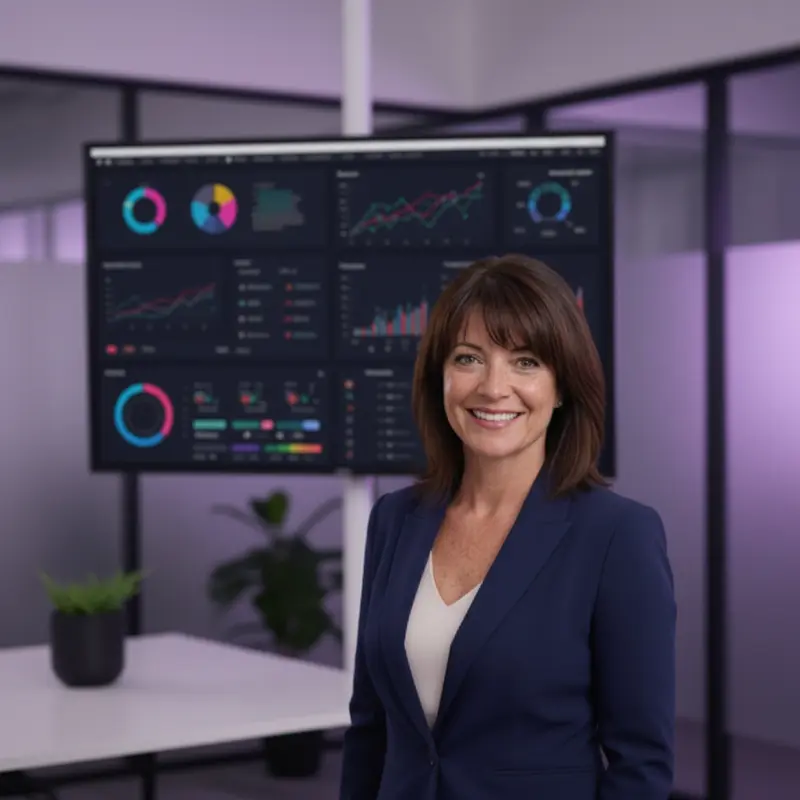
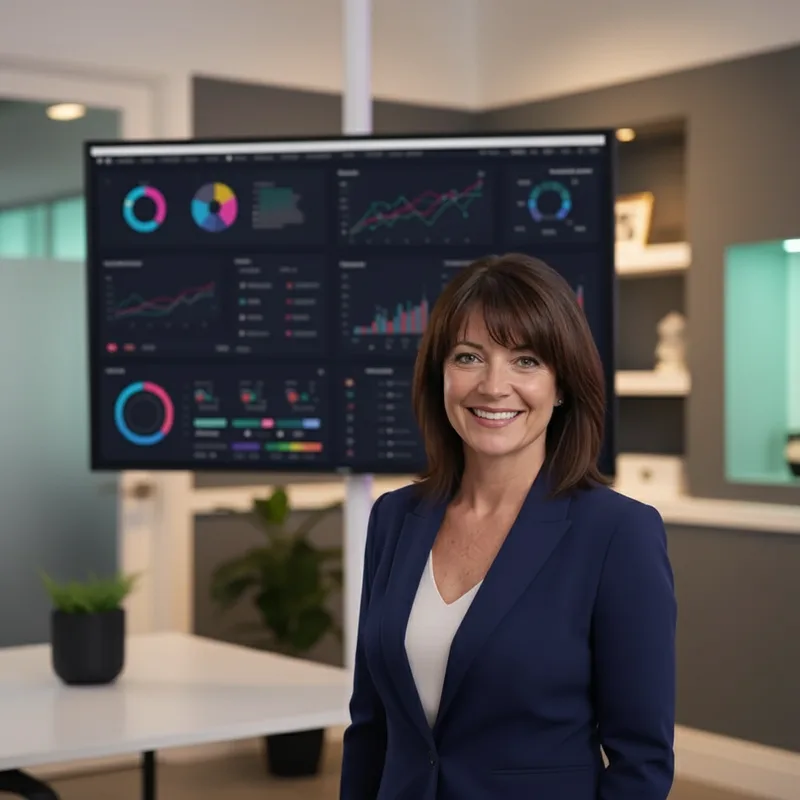
Update brand from purple/black to deep grey/teal/gold
- CSS primary changed from purple-tinted black (#1A1A2E) to neutral
  deep grey (#1F1F1F) across all 8 pages
- Regenerated Christy hero and why-choose-us images with neutral grey
  office backgrounds — no more purple walls
- Added butterfly logo source asset and service hero PNGs

diff --git a/digital-advertising.html b/digital-advertising.html
@@ -28,7 +28,7 @@
     @font-face{font-family:'Montserrat';src:url('/fonts/montserrat-800.woff2') format('woff2');font-weight:800;font-style:normal;font-display:swap}
     @font-face{font-family:'Inter Fallback';src:local('Arial');size-adjust:107%;ascent-override:90%;descent-override:23%;line-gap-override:0%}
 
-    :root{--primary:#1A1A2E;--primary-dark:#0D0D1A;--accent:#2EC4B6;--gold:#D4A843;--gold-light:#E8B931;--white:#FFFFFF;--off-white:#F8F9FA;--gray-50:#F9FAFB;--gray-100:#F3F4F6;--gray-200:#E5E7EB;--gray-500:#6B7280;--gray-600:#4B5563;--gray-700:#374151;--gray-800:#1F2937;--gray-900:#111827;--font-sans:'Inter','Inter Fallback',Arial,sans-serif;--font-heading:'Montserrat','Inter',Arial,sans-serif;--shadow-md:0 4px 6px -1px rgba(0,0,0,0.1),0 2px 4px -2px rgba(0,0,0,0.1);--shadow-lg:0 10px 15px -3px rgba(0,0,0,0.1),0 4px 6px -4px rgba(0,0,0,0.1);--shadow-xl:0 20px 25px -5px rgba(0,0,0,0.1),0 8px 10px -6px rgba(0,0,0,0.1);--radius:12px;--radius-lg:20px;--transition:0.3s cubic-bezier(0.4,0,0.2,1)}
+    :root{--primary:#1F1F1F;--primary-dark:#0F0F0F;--accent:#2EC4B6;--gold:#D4A843;--gold-light:#E8B931;--white:#FFFFFF;--off-white:#F8F9FA;--gray-50:#F9FAFB;--gray-100:#F3F4F6;--gray-200:#E5E7EB;--gray-500:#6B7280;--gray-600:#4B5563;--gray-700:#374151;--gray-800:#1F2937;--gray-900:#111827;--font-sans:'Inter','Inter Fallback',Arial,sans-serif;--font-heading:'Montserrat','Inter',Arial,sans-serif;--shadow-md:0 4px 6px -1px rgba(0,0,0,0.1),0 2px 4px -2px rgba(0,0,0,0.1);--shadow-lg:0 10px 15px -3px rgba(0,0,0,0.1),0 4px 6px -4px rgba(0,0,0,0.1);--shadow-xl:0 20px 25px -5px rgba(0,0,0,0.1),0 8px 10px -6px rgba(0,0,0,0.1);--radius:12px;--radius-lg:20px;--transition:0.3s cubic-bezier(0.4,0,0.2,1)}
 
     *,*::before,*::after{box-sizing:border-box;margin:0;padding:0}
     html{scroll-behavior:smooth;scroll-padding-top:80px}
@@ -60,7 +60,7 @@
     .mobile-nav a{font-size:18px;font-weight:500;color:var(--gray-700);padding:12px 0;border-bottom:1px solid var(--gray-100)}
 
     /* Hero */
-    .hero{padding:140px 0 100px;background:linear-gradient(135deg,var(--primary) 0%,var(--primary-dark) 50%,#0A0A14 100%);position:relative;overflow:hidden;min-height:90vh;display:flex;align-items:center}
+    .hero{padding:140px 0 100px;background:linear-gradient(135deg,var(--primary) 0%,var(--primary-dark) 50%,#0A0A0A 100%);position:relative;overflow:hidden;min-height:90vh;display:flex;align-items:center}
     .hero::before{content:'';position:absolute;top:-50%;right:-20%;width:800px;height:800px;background:radial-gradient(circle,rgba(212,168,67,0.15) 0%,transparent 70%);border-radius:50%}
     .hero::after{content:'';position:absolute;bottom:-30%;left:-10%;width:600px;height:600px;background:radial-gradient(circle,rgba(46,196,182,0.3) 0%,transparent 70%);border-radius:50%}
     .hero-grid{display:grid;grid-template-columns:1fr 1fr;gap:60px;align-items:center;position:relative;z-index:1}
@@ -100,13 +100,13 @@
     .why-grid{max-width:800px;margin:0 auto;display:grid;gap:20px}
     .why-item{display:flex;align-items:flex-start;gap:16px;background:var(--white);padding:24px;border-radius:var(--radius);border:1px solid var(--gray-100);transition:all var(--transition)}
     .why-item:hover{box-shadow:var(--shadow-lg);transform:translateY(-2px)}
-    .why-check{width:32px;height:32px;min-width:32px;background:rgba(26,26,46,0.1);border-radius:50%;display:flex;align-items:center;justify-content:center;color:var(--primary);margin-top:2px}
+    .why-check{width:32px;height:32px;min-width:32px;background:rgba(31,31,31,0.1);border-radius:50%;display:flex;align-items:center;justify-content:center;color:var(--primary);margin-top:2px}
     .why-check svg{width:16px;height:16px}
     .why-item h4{font-size:17px;font-weight:700;margin-bottom:6px;font-family:var(--font-heading)}
     .why-item p{font-size:15px;color:var(--gray-500);line-height:1.7}
 
     /* CTA */
-    .cta-section{background:linear-gradient(135deg,var(--primary) 0%,var(--primary-dark) 50%,#0A0A14 100%);color:var(--white);text-align:center;padding:80px 0;position:relative;overflow:hidden}
+    .cta-section{background:linear-gradient(135deg,var(--primary) 0%,var(--primary-dark) 50%,#0A0A0A 100%);color:var(--white);text-align:center;padding:80px 0;position:relative;overflow:hidden}
     .cta-section::before{content:'';position:absolute;top:-40%;right:-15%;width:600px;height:600px;background:radial-gradient(circle,rgba(212,168,67,0.12) 0%,transparent 70%);border-radius:50%}
     .cta-section h2{font-size:42px;font-weight:800;color:var(--white);margin-bottom:16px;position:relative;z-index:1}
     .cta-section p{font-size:18px;color:rgba(255,255,255,0.8);margin-bottom:32px;max-width:600px;margin-left:auto;margin-right:auto;position:relative;z-index:1}

diff --git a/content-creation.html b/content-creation.html
@@ -28,7 +28,7 @@
     @font-face{font-family:'Montserrat';src:url('/fonts/montserrat-800.woff2') format('woff2');font-weight:800;font-style:normal;font-display:swap}
     @font-face{font-family:'Inter Fallback';src:local('Arial');size-adjust:107%;ascent-override:90%;descent-override:23%;line-gap-override:0%}
 
-    :root{--primary:#1A1A2E;--primary-dark:#0D0D1A;--accent:#2EC4B6;--gold:#D4A843;--gold-light:#E8B931;--white:#FFFFFF;--off-white:#F8F9FA;--gray-50:#F9FAFB;--gray-100:#F3F4F6;--gray-200:#E5E7EB;--gray-300:#D1D5DB;--gray-500:#6B7280;--gray-600:#4B5563;--gray-700:#374151;--gray-800:#1F2937;--gray-900:#111827;--font-sans:'Inter','Inter Fallback',Arial,sans-serif;--font-heading:'Montserrat','Inter',Arial,sans-serif;--shadow-sm:0 1px 2px rgba(0,0,0,0.05);--shadow-md:0 4px 6px -1px rgba(0,0,0,0.1),0 2px 4px -2px rgba(0,0,0,0.1);--shadow-lg:0 10px 15px -3px rgba(0,0,0,0.1),0 4px 6px -4px rgba(0,0,0,0.1);--shadow-xl:0 20px 25px -5px rgba(0,0,0,0.1),0 8px 10px -6px rgba(0,0,0,0.1);--radius:12px;--radius-lg:20px;--transition:0.3s cubic-bezier(0.4,0,0.2,1)}
+    :root{--primary:#1F1F1F;--primary-dark:#0F0F0F;--accent:#2EC4B6;--gold:#D4A843;--gold-light:#E8B931;--white:#FFFFFF;--off-white:#F8F9FA;--gray-50:#F9FAFB;--gray-100:#F3F4F6;--gray-200:#E5E7EB;--gray-300:#D1D5DB;--gray-500:#6B7280;--gray-600:#4B5563;--gray-700:#374151;--gray-800:#1F2937;--gray-900:#111827;--font-sans:'Inter','Inter Fallback',Arial,sans-serif;--font-heading:'Montserrat','Inter',Arial,sans-serif;--shadow-sm:0 1px 2px rgba(0,0,0,0.05);--shadow-md:0 4px 6px -1px rgba(0,0,0,0.1),0 2px 4px -2px rgba(0,0,0,0.1);--shadow-lg:0 10px 15px -3px rgba(0,0,0,0.1),0 4px 6px -4px rgba(0,0,0,0.1);--shadow-xl:0 20px 25px -5px rgba(0,0,0,0.1),0 8px 10px -6px rgba(0,0,0,0.1);--radius:12px;--radius-lg:20px;--transition:0.3s cubic-bezier(0.4,0,0.2,1)}
 
     *,*::before,*::after{box-sizing:border-box;margin:0;padding:0}
     html{scroll-behavior:smooth;scroll-padding-top:80px}
@@ -60,7 +60,7 @@
     .mobile-nav a{font-size:18px;font-weight:500;color:var(--gray-700);padding:12px 0;border-bottom:1px solid var(--gray-100)}
 
     /* Hero */
-    .hero{padding:140px 0 100px;background:linear-gradient(135deg,var(--primary) 0%,var(--primary-dark) 50%,#0A0A14 100%);position:relative;overflow:hidden;min-height:90vh;display:flex;align-items:center}
+    .hero{padding:140px 0 100px;background:linear-gradient(135deg,var(--primary) 0%,var(--primary-dark) 50%,#0A0A0A 100%);position:relative;overflow:hidden;min-height:90vh;display:flex;align-items:center}
     .hero::before{content:'';position:absolute;top:-50%;right:-20%;width:800px;height:800px;background:radial-gradient(circle,rgba(212,168,67,0.15) 0%,transparent 70%);border-radius:50%}
     .hero::after{content:'';position:absolute;bottom:-30%;left:-10%;width:600px;height:600px;background:radial-gradient(circle,rgba(46,196,182,0.3) 0%,transparent 70%);border-radius:50%}
     .hero-grid{display:grid;grid-template-columns:1fr 1fr;gap:60px;align-items:center;position:relative;z-index:1}
@@ -104,13 +104,13 @@
     .why-content h2 span{color:var(--gold)}
     .why-list{display:flex;flex-direction:column;gap:20px;margin-top:32px}
     .why-item{display:flex;align-items:flex-start;gap:16px}
-    .why-check{width:28px;height:28px;min-width:28px;background:rgba(26,26,46,0.1);border-radius:50%;display:flex;align-items:center;justify-content:center;color:var(--primary);margin-top:2px}
+    .why-check{width:28px;height:28px;min-width:28px;background:rgba(31,31,31,0.1);border-radius:50%;display:flex;align-items:center;justify-content:center;color:var(--primary);margin-top:2px}
     .why-check svg{width:16px;height:16px}
     .why-item-text h3{font-size:17px;font-weight:600;color:var(--gray-800);margin-bottom:4px;font-family:var(--font-heading)}
     .why-item-text p{font-size:15px;color:var(--gray-500);line-height:1.6}
 
     /* CTA Section */
-    .cta-section{background:linear-gradient(135deg,var(--primary) 0%,var(--primary-dark) 50%,#0A0A14 100%);position:relative;overflow:hidden;text-align:center;color:var(--white)}
+    .cta-section{background:linear-gradient(135deg,var(--primary) 0%,var(--primary-dark) 50%,#0A0A0A 100%);position:relative;overflow:hidden;text-align:center;color:var(--white)}
     .cta-section::before{content:'';position:absolute;top:-40%;right:-15%;width:600px;height:600px;background:radial-gradient(circle,rgba(212,168,67,0.12) 0%,transparent 70%);border-radius:50%}
     .cta-section h2{font-size:42px;font-weight:800;color:var(--white);margin-bottom:16px;position:relative;z-index:1}
     .cta-section p{font-size:18px;color:rgba(255,255,255,0.8);margin-bottom:40px;max-width:600px;margin-left:auto;margin-right:auto;position:relative;z-index:1}

diff --git a/index.html b/index.html
@@ -31,8 +31,8 @@
 
     /* ── CSS Variables ── */
     :root {
-      --primary: #1A1A2E;
-      --primary-dark: #0D0D1A;
+      --primary: #1F1F1F;
+      --primary-dark: #0F0F0F;
       --accent: #2EC4B6;
       --gold: #D4A843;
       --gold-light: #E8B931;
@@ -90,7 +90,7 @@
     .mobile-nav a { font-size: 18px; font-weight: 500; color: var(--gray-700); padding: 12px 0; border-bottom: 1px solid var(--gray-100); }
 
     /* ── Hero ── */
-    .hero { padding: 140px 0 100px; background: linear-gradient(135deg, var(--primary) 0%, var(--primary-dark) 50%, #0A0A14 100%); position: relative; overflow: hidden; min-height: 90vh; display: flex; align-items: center; }
+    .hero { padding: 140px 0 100px; background: linear-gradient(135deg, var(--primary) 0%, var(--primary-dark) 50%, #0A0A0A 100%); position: relative; overflow: hidden; min-height: 90vh; display: flex; align-items: center; }
     .hero::before { content: ''; position: absolute; top: -50%; right: -20%; width: 800px; height: 800px; background: radial-gradient(circle, rgba(212,168,67,0.15) 0%, transparent 70%); border-radius: 50%; }
     .hero::after { content: ''; position: absolute; bottom: -30%; left: -10%; width: 600px; height: 600px; background: radial-gradient(circle, rgba(46,196,182,0.3) 0%, transparent 70%); border-radius: 50%; }
     .hero-grid { display: grid; grid-template-columns: 1fr 1fr; gap: 60px; align-items: center; position: relative; z-index: 1; }
@@ -107,7 +107,7 @@
     .btn-outline:hover { background: rgba(255,255,255,0.1); border-color: rgba(255,255,255,0.6); }
     .hero-image { position: relative; }
     .hero-image img { width: 100%; border-radius: var(--radius-lg); }
-    .hero-image .butterfly-float { position: absolute; top: -30px; right: -20px; width: 120px; height: auto; animation: float 3s ease-in-out infinite; filter: drop-shadow(0 8px 20px rgba(26,26,46,0.3)); }
+    .hero-image .butterfly-float { position: absolute; top: -30px; right: -20px; width: 120px; height: auto; animation: float 3s ease-in-out infinite; filter: drop-shadow(0 8px 20px rgba(31,31,31,0.3)); }
     @keyframes float { 0%, 100% { transform: translateY(0) rotate(0deg); } 50% { transform: translateY(-15px) rotate(5deg); } }
     .hero-stats { display: flex; gap: 40px; margin-top: 48px; padding-top: 32px; border-top: 1px solid rgba(255,255,255,0.15); }
     .hero-stat { text-align: left; }
@@ -147,7 +147,7 @@
     .about-content > p { font-size: 17px; color: var(--gray-600); line-height: 1.8; margin-bottom: 20px; }
     .about-features { display: grid; grid-template-columns: 1fr 1fr; gap: 16px; margin-top: 32px; }
     .about-feature { display: flex; align-items: flex-start; gap: 12px; padding: 12px; border-radius: 8px; }
-    .about-feature .check { width: 24px; height: 24px; min-width: 24px; background: rgba(26,26,46,0.1); border-radius: 50%; display: flex; align-items: center; justify-content: center; color: var(--primary); margin-top: 2px; }
+    .about-feature .check { width: 24px; height: 24px; min-width: 24px; background: rgba(31,31,31,0.1); border-radius: 50%; display: flex; align-items: center; justify-content: center; color: var(--primary); margin-top: 2px; }
     .about-feature .check svg { width: 14px; height: 14px; }
     .about-feature span { font-size: 15px; font-weight: 500; color: var(--gray-700); }
 
@@ -218,7 +218,7 @@
     .form-group { margin-bottom: 16px; }
     .form-group label { display: block; font-size: 14px; font-weight: 500; color: var(--gray-700); margin-bottom: 6px; }
     .form-group input, .form-group textarea, .form-group select { width: 100%; padding: 12px 16px; border: 1px solid var(--gray-200); border-radius: 8px; font-family: var(--font-sans); font-size: 15px; color: var(--gray-800); transition: border-color var(--transition), box-shadow var(--transition); background: var(--gray-50); }
-    .form-group input:focus, .form-group textarea:focus, .form-group select:focus { outline: none; border-color: var(--primary); box-shadow: 0 0 0 3px rgba(26,26,46,0.1); background: var(--white); }
+    .form-group input:focus, .form-group textarea:focus, .form-group select:focus { outline: none; border-color: var(--primary); box-shadow: 0 0 0 3px rgba(31,31,31,0.1); background: var(--white); }
     .form-group textarea { resize: vertical; min-height: 100px; }
     .form-submit { width: 100%; padding: 14px; background: var(--primary); color: var(--white); border: none; border-radius: 50px; font-family: var(--font-sans); font-size: 16px; font-weight: 600; cursor: pointer; transition: all var(--transition); }
     .form-submit:hover { background: var(--primary-dark); transform: translateY(-1px); box-shadow: var(--shadow-md); }

diff --git a/seo-analysis.html b/seo-analysis.html
@@ -30,7 +30,7 @@
     @font-face{font-family:'Inter Fallback';src:local('Arial');size-adjust:107%;ascent-override:90%;descent-override:23%;line-gap-override:0%}
 
     /* ── CSS Variables ── */
-    :root{--primary:#1A1A2E;--primary-dark:#0D0D1A;--accent:#2EC4B6;--gold:#D4A843;--gold-light:#E8B931;--white:#FFFFFF;--off-white:#F8F9FA;--gray-50:#F9FAFB;--gray-100:#F3F4F6;--gray-200:#E5E7EB;--gray-500:#6B7280;--gray-600:#4B5563;--gray-700:#374151;--gray-800:#1F2937;--gray-900:#111827;--font-sans:'Inter','Inter Fallback',Arial,sans-serif;--font-heading:'Montserrat','Inter',Arial,sans-serif;--shadow-md:0 4px 6px -1px rgba(0,0,0,0.1),0 2px 4px -2px rgba(0,0,0,0.1);--shadow-lg:0 10px 15px -3px rgba(0,0,0,0.1),0 4px 6px -4px rgba(0,0,0,0.1);--shadow-xl:0 20px 25px -5px rgba(0,0,0,0.1),0 8px 10px -6px rgba(0,0,0,0.1);--radius:12px;--radius-lg:20px;--transition:0.3s cubic-bezier(0.4,0,0.2,1)}
+    :root{--primary:#1F1F1F;--primary-dark:#0F0F0F;--accent:#2EC4B6;--gold:#D4A843;--gold-light:#E8B931;--white:#FFFFFF;--off-white:#F8F9FA;--gray-50:#F9FAFB;--gray-100:#F3F4F6;--gray-200:#E5E7EB;--gray-500:#6B7280;--gray-600:#4B5563;--gray-700:#374151;--gray-800:#1F2937;--gray-900:#111827;--font-sans:'Inter','Inter Fallback',Arial,sans-serif;--font-heading:'Montserrat','Inter',Arial,sans-serif;--shadow-md:0 4px 6px -1px rgba(0,0,0,0.1),0 2px 4px -2px rgba(0,0,0,0.1);--shadow-lg:0 10px 15px -3px rgba(0,0,0,0.1),0 4px 6px -4px rgba(0,0,0,0.1);--shadow-xl:0 20px 25px -5px rgba(0,0,0,0.1),0 8px 10px -6px rgba(0,0,0,0.1);--radius:12px;--radius-lg:20px;--transition:0.3s cubic-bezier(0.4,0,0.2,1)}
 
     /* ── Reset & Base ── */
     *,*::before,*::after{box-sizing:border-box;margin:0;padding:0}
@@ -63,7 +63,7 @@
     .mobile-nav a{font-size:18px;font-weight:500;color:var(--gray-700);padding:12px 0;border-bottom:1px solid var(--gray-100)}
 
     /* ── Hero ── */
-    .hero{padding:140px 0 100px;background:linear-gradient(135deg,var(--primary) 0%,var(--primary-dark) 50%,#0A0A14 100%);position:relative;overflow:hidden;min-height:80vh;display:flex;align-items:center}
+    .hero{padding:140px 0 100px;background:linear-gradient(135deg,var(--primary) 0%,var(--primary-dark) 50%,#0A0A0A 100%);position:relative;overflow:hidden;min-height:80vh;display:flex;align-items:center}
     .hero::before{content:'';position:absolute;top:-50%;right:-20%;width:800px;height:800px;background:radial-gradient(circle,rgba(212,168,67,0.15) 0%,transparent 70%);border-radius:50%}
     .hero::after{content:'';position:absolute;bottom:-30%;left:-10%;width:600px;height:600px;background:radial-gradient(circle,rgba(46,196,182,0.3) 0%,transparent 70%);border-radius:50%}
     .hero-grid{display:grid;grid-template-columns:1fr 1fr;gap:60px;align-items:center;position:relative;z-index:1}
@@ -108,7 +108,7 @@
     .why-list{display:flex;flex-direction:column;gap:20px;margin-top:32px}
     .why-item{display:flex;align-items:flex-start;gap:16px;padding:16px;background:var(--white);border-radius:var(--radius);border:1px solid var(--gray-100);transition:all var(--transition)}
     .why-item:hover{box-shadow:var(--shadow-md);border-color:var(--primary)}
-    .why-check{width:28px;height:28px;min-width:28px;background:rgba(26,26,46,0.1);border-radius:50%;display:flex;align-items:center;justify-content:center;color:var(--primary);margin-top:2px}
+    .why-check{width:28px;height:28px;min-width:28px;background:rgba(31,31,31,0.1);border-radius:50%;display:flex;align-items:center;justify-content:center;color:var(--primary);margin-top:2px}
     .why-check svg{width:16px;height:16px}
     .why-item-text h4{font-size:16px;font-weight:600;color:var(--gray-800);margin-bottom:4px;font-family:var(--font-heading)}
     .why-item-text p{font-size:14px;color:var(--gray-500);line-height:1.6}
@@ -122,7 +122,7 @@
     .stat-bar-fill.animated{width:93%}
 
     /* ── CTA Section ── */
-    .cta-section{background:linear-gradient(135deg,var(--primary) 0%,var(--primary-dark) 50%,#0A0A14 100%);color:var(--white);text-align:center;padding:80px 0;position:relative;overflow:hidden}
+    .cta-section{background:linear-gradient(135deg,var(--primary) 0%,var(--primary-dark) 50%,#0A0A0A 100%);color:var(--white);text-align:center;padding:80px 0;position:relative;overflow:hidden}
     .cta-section::before{content:'';position:absolute;top:-40%;right:-15%;width:600px;height:600px;background:radial-gradient(circle,rgba(212,168,67,0.12) 0%,transparent 70%);border-radius:50%}
     .cta-content{position:relative;z-index:1;max-width:650px;margin:0 auto}
     .cta-content h2{font-size:38px;font-weight:800;color:var(--white);margin-bottom:16px}

diff --git a/social-media.html b/social-media.html
@@ -31,7 +31,7 @@
 
     /* ── CSS Variables ── */
     :root{
-      --primary:#1A1A2E;--primary-dark:#0D0D1A;--accent:#2EC4B6;
+      --primary:#1F1F1F;--primary-dark:#0F0F0F;--accent:#2EC4B6;
       --gold:#D4A843;--gold-light:#E8B931;
       --white:#FFFFFF;--off-white:#F8F9FA;
       --gray-100:#F3F4F6;--gray-500:#6B7280;--gray-600:#4B5563;--gray-700:#374151;--gray-800:#1F2937;--gray-900:#111827;
@@ -74,7 +74,7 @@
     .mobile-nav a{font-size:18px;font-weight:500;color:var(--gray-700);padding:12px 0;border-bottom:1px solid var(--gray-100)}
 
     /* ── Hero ── */
-    .hero{padding:140px 0 100px;background:linear-gradient(135deg,#1A1A2E 0%,#0D0D1A 50%,#0A0A14 100%);position:relative;overflow:hidden;min-height:90vh;display:flex;align-items:center}
+    .hero{padding:140px 0 100px;background:linear-gradient(135deg,#1F1F1F 0%,#0F0F0F 50%,#0A0A0A 100%);position:relative;overflow:hidden;min-height:90vh;display:flex;align-items:center}
     .hero::before{content:'';position:absolute;top:-50%;right:-20%;width:800px;height:800px;background:radial-gradient(circle,rgba(212,168,67,0.15) 0%,transparent 70%);border-radius:50%}
     .hero::after{content:'';position:absolute;bottom:-30%;left:-10%;width:600px;height:600px;background:radial-gradient(circle,rgba(46,196,182,0.3) 0%,transparent 70%);border-radius:50%}
     .hero-grid{display:grid;grid-template-columns:1fr 1fr;gap:60px;align-items:center;position:relative;z-index:1}
@@ -103,8 +103,8 @@
     .service-details{background:var(--white)}
     .details-grid{display:grid;grid-template-columns:repeat(3,1fr);gap:40px}
     .detail-card{background:var(--white);border:1px solid rgba(0,0,0,0.06);border-radius:var(--radius-lg);padding:40px 32px;transition:all var(--transition)}
-    .detail-card:hover{transform:translateY(-4px);box-shadow:var(--shadow-lg);border-color:rgba(26,26,46,0.15)}
-    .detail-icon{width:64px;height:64px;background:linear-gradient(135deg,rgba(26,26,46,0.1),rgba(26,26,46,0.05));border-radius:16px;display:flex;align-items:center;justify-content:center;margin-bottom:24px;color:var(--primary)}
+    .detail-card:hover{transform:translateY(-4px);box-shadow:var(--shadow-lg);border-color:rgba(31,31,31,0.15)}
+    .detail-icon{width:64px;height:64px;background:linear-gradient(135deg,rgba(31,31,31,0.1),rgba(31,31,31,0.05));border-radius:16px;display:flex;align-items:center;justify-content:center;margin-bottom:24px;color:var(--primary)}
     .detail-icon svg{width:32px;height:32px}
     .detail-card h3{font-size:22px;font-weight:700;margin-bottom:12px;color:var(--gray-900)}
     .detail-card p{font-size:16px;color:var(--gray-600);line-height:1.7}
@@ -126,10 +126,10 @@
     .stat-box .num{font-family:var(--font-heading);font-size:32px;font-weight:800;color:var(--primary);margin-bottom:4px}
     .stat-box .lbl{font-size:13px;color:var(--gray-500)}
     .platforms{display:flex;justify-content:center;gap:16px;padding-top:16px;border-top:1px solid var(--gray-100)}
-    .platform-badge{display:inline-flex;align-items:center;gap:6px;padding:8px 16px;background:rgba(26,26,46,0.06);border-radius:50px;font-size:13px;font-weight:600;color:var(--primary)}
+    .platform-badge{display:inline-flex;align-items:center;gap:6px;padding:8px 16px;background:rgba(31,31,31,0.06);border-radius:50px;font-size:13px;font-weight:600;color:var(--primary)}
 
     /* ── CTA ── */
-    .cta-section{background:linear-gradient(135deg,#1A1A2E 0%,#0D0D1A 50%,#0A0A14 100%);position:relative;overflow:hidden;text-align:center}
+    .cta-section{background:linear-gradient(135deg,#1F1F1F 0%,#0F0F0F 50%,#0A0A0A 100%);position:relative;overflow:hidden;text-align:center}
     .cta-section::before{content:'';position:absolute;top:-40%;right:-15%;width:600px;height:600px;background:radial-gradient(circle,rgba(212,168,67,0.12) 0%,transparent 70%);border-radius:50%}
     .cta-inner{position:relative;z-index:1}
     .cta-section h2{font-size:42px;font-weight:700;color:var(--white);margin-bottom:16px}

diff --git a/services.html b/services.html
@@ -27,7 +27,7 @@
     @font-face{font-family:'Montserrat';src:url('/fonts/montserrat-800.woff2') format('woff2');font-weight:800;font-style:normal;font-display:swap}
     @font-face{font-family:'Inter Fallback';src:local('Arial');size-adjust:107%;ascent-override:90%;descent-override:23%;line-gap-override:0%}
 
-    :root{--primary:#1A1A2E;--primary-dark:#0D0D1A;--accent:#2EC4B6;--gold:#D4A843;--gold-light:#E8B931;--white:#FFFFFF;--off-white:#F8F9FA;--gray-50:#F9FAFB;--gray-100:#F3F4F6;--gray-200:#E5E7EB;--gray-300:#D1D5DB;--gray-500:#6B7280;--gray-600:#4B5563;--gray-700:#374151;--gray-800:#1F2937;--gray-900:#111827;--font-sans:'Inter','Inter Fallback',Arial,sans-serif;--font-heading:'Montserrat','Inter',Arial,sans-serif;--shadow-sm:0 1px 2px rgba(0,0,0,0.05);--shadow-md:0 4px 6px -1px rgba(0,0,0,0.1),0 2px 4px -2px rgba(0,0,0,0.1);--shadow-lg:0 10px 15px -3px rgba(0,0,0,0.1),0 4px 6px -4px rgba(0,0,0,0.1);--shadow-xl:0 20px 25px -5px rgba(0,0,0,0.1),0 8px 10px -6px rgba(0,0,0,0.1);--radius:12px;--radius-lg:20px;--transition:0.3s cubic-bezier(0.4,0,0.2,1)}
+    :root{--primary:#1F1F1F;--primary-dark:#0F0F0F;--accent:#2EC4B6;--gold:#D4A843;--gold-light:#E8B931;--white:#FFFFFF;--off-white:#F8F9FA;--gray-50:#F9FAFB;--gray-100:#F3F4F6;--gray-200:#E5E7EB;--gray-300:#D1D5DB;--gray-500:#6B7280;--gray-600:#4B5563;--gray-700:#374151;--gray-800:#1F2937;--gray-900:#111827;--font-sans:'Inter','Inter Fallback',Arial,sans-serif;--font-heading:'Montserrat','Inter',Arial,sans-serif;--shadow-sm:0 1px 2px rgba(0,0,0,0.05);--shadow-md:0 4px 6px -1px rgba(0,0,0,0.1),0 2px 4px -2px rgba(0,0,0,0.1);--shadow-lg:0 10px 15px -3px rgba(0,0,0,0.1),0 4px 6px -4px rgba(0,0,0,0.1);--shadow-xl:0 20px 25px -5px rgba(0,0,0,0.1),0 8px 10px -6px rgba(0,0,0,0.1);--radius:12px;--radius-lg:20px;--transition:0.3s cubic-bezier(0.4,0,0.2,1)}
 
     *,*::before,*::after{box-sizing:border-box;margin:0;padding:0}
     html{scroll-behavior:smooth;scroll-padding-top:80px}
@@ -59,7 +59,7 @@
     .mobile-nav a{font-size:18px;font-weight:500;color:var(--gray-700);padding:12px 0;border-bottom:1px solid var(--gray-100)}
 
     /* Hero */
-    .hero{padding:140px 0 100px;background:linear-gradient(135deg,var(--primary) 0%,var(--primary-dark) 50%,#0A0A14 100%);position:relative;overflow:hidden;display:flex;align-items:center;text-align:center}
+    .hero{padding:140px 0 100px;background:linear-gradient(135deg,var(--primary) 0%,var(--primary-dark) 50%,#0A0A0A 100%);position:relative;overflow:hidden;display:flex;align-items:center;text-align:center}
     .hero::before{content:'';position:absolute;top:-50%;right:-20%;width:800px;height:800px;background:radial-gradient(circle,rgba(212,168,67,0.15) 0%,transparent 70%);border-radius:50%}
     .hero::after{content:'';position:absolute;bottom:-30%;left:-10%;width:600px;height:600px;background:radial-gradient(circle,rgba(46,196,182,0.3) 0%,transparent 70%);border-radius:50%}
     .hero-content{position:relative;z-index:1;max-width:720px;margin:0 auto;color:var(--white)}
@@ -93,7 +93,7 @@
     .service-link:hover svg{transform:translateX(4px)}
 
     /* CTA Section */
-    .cta-section{background:linear-gradient(135deg,var(--primary) 0%,var(--primary-dark) 50%,#0A0A14 100%);position:relative;overflow:hidden;text-align:center;color:var(--white)}
+    .cta-section{background:linear-gradient(135deg,var(--primary) 0%,var(--primary-dark) 50%,#0A0A0A 100%);position:relative;overflow:hidden;text-align:center;color:var(--white)}
     .cta-section::before{content:'';position:absolute;top:-40%;right:-15%;width:600px;height:600px;background:radial-gradient(circle,rgba(212,168,67,0.12) 0%,transparent 70%);border-radius:50%}
     .cta-section h2{font-size:42px;font-weight:800;color:var(--white);margin-bottom:16px;position:relative;z-index:1}
     .cta-section p{font-size:18px;color:rgba(255,255,255,0.8);margin-bottom:40px;max-width:600px;margin-left:auto;margin-right:auto;position:relative;z-index:1}

diff --git a/blogging.html b/blogging.html
@@ -27,7 +27,7 @@
     @font-face{font-family:'Montserrat';src:url('/fonts/montserrat-800.woff2') format('woff2');font-weight:800;font-style:normal;font-display:swap}
     @font-face{font-family:'Inter Fallback';src:local('Arial');size-adjust:107%;ascent-override:90%;descent-override:23%;line-gap-override:0%}
 
-    :root{--primary:#1A1A2E;--primary-dark:#0D0D1A;--accent:#2EC4B6;--gold:#D4A843;--gold-light:#E8B931;--white:#FFFFFF;--off-white:#F8F9FA;--gray-100:#F3F4F6;--gray-500:#6B7280;--gray-600:#4B5563;--gray-700:#374151;--gray-800:#1F2937;--gray-900:#111827;--font-sans:'Inter','Inter Fallback',Arial,sans-serif;--font-heading:'Montserrat','Inter',Arial,sans-serif;--shadow-md:0 4px 6px -1px rgba(0,0,0,0.1),0 2px 4px -2px rgba(0,0,0,0.1);--shadow-lg:0 10px 15px -3px rgba(0,0,0,0.1),0 4px 6px -4px rgba(0,0,0,0.1);--radius:12px;--radius-lg:20px;--transition:0.3s cubic-bezier(0.4,0,0.2,1)}
+    :root{--primary:#1F1F1F;--primary-dark:#0F0F0F;--accent:#2EC4B6;--gold:#D4A843;--gold-light:#E8B931;--white:#FFFFFF;--off-white:#F8F9FA;--gray-100:#F3F4F6;--gray-500:#6B7280;--gray-600:#4B5563;--gray-700:#374151;--gray-800:#1F2937;--gray-900:#111827;--font-sans:'Inter','Inter Fallback',Arial,sans-serif;--font-heading:'Montserrat','Inter',Arial,sans-serif;--shadow-md:0 4px 6px -1px rgba(0,0,0,0.1),0 2px 4px -2px rgba(0,0,0,0.1);--shadow-lg:0 10px 15px -3px rgba(0,0,0,0.1),0 4px 6px -4px rgba(0,0,0,0.1);--radius:12px;--radius-lg:20px;--transition:0.3s cubic-bezier(0.4,0,0.2,1)}
 
     *,*::before,*::after{box-sizing:border-box;margin:0;padding:0}
     html{scroll-behavior:smooth;scroll-padding-top:80px}
@@ -59,7 +59,7 @@
     .mobile-nav a{font-size:18px;font-weight:500;color:var(--gray-700);padding:12px 0;border-bottom:1px solid var(--gray-100)}
 
     /* Hero */
-    .hero{padding:140px 0 100px;background:linear-gradient(135deg,#1A1A2E 0%,#0D0D1A 50%,#0A0A14 100%);position:relative;overflow:hidden;min-height:80vh;display:flex;align-items:center}
+    .hero{padding:140px 0 100px;background:linear-gradient(135deg,#1F1F1F 0%,#0F0F0F 50%,#0A0A0A 100%);position:relative;overflow:hidden;min-height:80vh;display:flex;align-items:center}
     .hero::before{content:'';position:absolute;top:-50%;right:-20%;width:800px;height:800px;background:radial-gradient(circle,rgba(212,168,67,0.15) 0%,transparent 70%);border-radius:50%}
     .hero::after{content:'';position:absolute;bottom:-30%;left:-10%;width:600px;height:600px;background:radial-gradient(circle,rgba(46,196,182,0.3) 0%,transparent 70%);border-radius:50%}
     .hero-grid{display:grid;grid-template-columns:1fr 1fr;gap:60px;align-items:center;position:relative;z-index:1}
@@ -104,7 +104,7 @@
     .why-image img{border-radius:var(--radius-lg);box-shadow:var(--shadow-lg)}
 
     /* CTA Section */
-    .cta-section{background:linear-gradient(135deg,#1A1A2E 0%,#0D0D1A 50%,#0A0A14 100%);text-align:center;position:relative;overflow:hidden}
+    .cta-section{background:linear-gradient(135deg,#1F1F1F 0%,#0F0F0F 50%,#0A0A0A 100%);text-align:center;position:relative;overflow:hidden}
     .cta-section::before{content:'';position:absolute;top:-50%;right:-20%;width:600px;height:600px;background:radial-gradient(circle,rgba(212,168,67,0.12) 0%,transparent 70%);border-radius:50%}
     .cta-inner{position:relative;z-index:1}
     .cta-section h2{font-size:40px;font-weight:700;color:var(--white);margin-bottom:16px}

diff --git a/email-marketing.html b/email-marketing.html
@@ -29,7 +29,7 @@
     @font-face{font-family:'Inter Fallback';src:local('Arial');size-adjust:107%;ascent-override:90%;descent-override:23%;line-gap-override:0%}
 
     :root{
-      --primary:#1A1A2E;--primary-dark:#0D0D1A;--accent:#2EC4B6;
+      --primary:#1F1F1F;--primary-dark:#0F0F0F;--accent:#2EC4B6;
       --gold:#D4A843;--gold-light:#E8B931;
       --white:#FFFFFF;--off-white:#F8F9FA;
       --gray-50:#F9FAFB;--gray-100:#F3F4F6;--gray-200:#E5E7EB;--gray-500:#6B7280;--gray-600:#4B5563;--gray-700:#374151;--gray-800:#1F2937;--gray-900:#111827;
@@ -71,7 +71,7 @@
     .mobile-nav a{font-size:18px;font-weight:500;color:var(--gray-700);padding:12px 0;border-bottom:1px solid var(--gray-100)}
 
     /* Hero */
-    .hero{padding:140px 0 100px;background:linear-gradient(135deg,var(--primary) 0%,var(--primary-dark) 50%,#0A0A14 100%);position:relative;overflow:hidden;min-height:90vh;display:flex;align-items:center}
+    .hero{padding:140px 0 100px;background:linear-gradient(135deg,var(--primary) 0%,var(--primary-dark) 50%,#0A0A0A 100%);position:relative;overflow:hidden;min-height:90vh;display:flex;align-items:center}
     .hero::before{content:'';position:absolute;top:-50%;right:-20%;width:800px;height:800px;background:radial-gradient(circle,rgba(212,168,67,0.15) 0%,transparent 70%);border-radius:50%}
     .hero::after{content:'';position:absolute;bottom:-30%;left:-10%;width:600px;height:600px;background:radial-gradient(circle,rgba(46,196,182,0.3) 0%,transparent 70%);border-radius:50%}
     .hero-grid{display:grid;grid-template-columns:1fr 1fr;gap:60px;align-items:center;position:relative;z-index:1}
@@ -110,7 +110,7 @@
     .why-item-text p{font-size:15px;color:var(--gray-600);line-height:1.6}
 
     /* CTA Section */
-    .cta-section{background:linear-gradient(135deg,var(--primary) 0%,var(--primary-dark) 50%,#0A0A14 100%);text-align:center;position:relative;overflow:hidden}
+    .cta-section{background:linear-gradient(135deg,var(--primary) 0%,var(--primary-dark) 50%,#0A0A0A 100%);text-align:center;position:relative;overflow:hidden}
     .cta-section::before{content:'';position:absolute;top:-50%;right:-20%;width:600px;height:600px;background:radial-gradient(circle,rgba(212,168,67,0.12) 0%,transparent 70%);border-radius:50%}
     .cta-inner{position:relative;z-index:1}
     .cta-section h2{font-size:40px;font-weight:800;color:var(--white);margin-bottom:16px}
